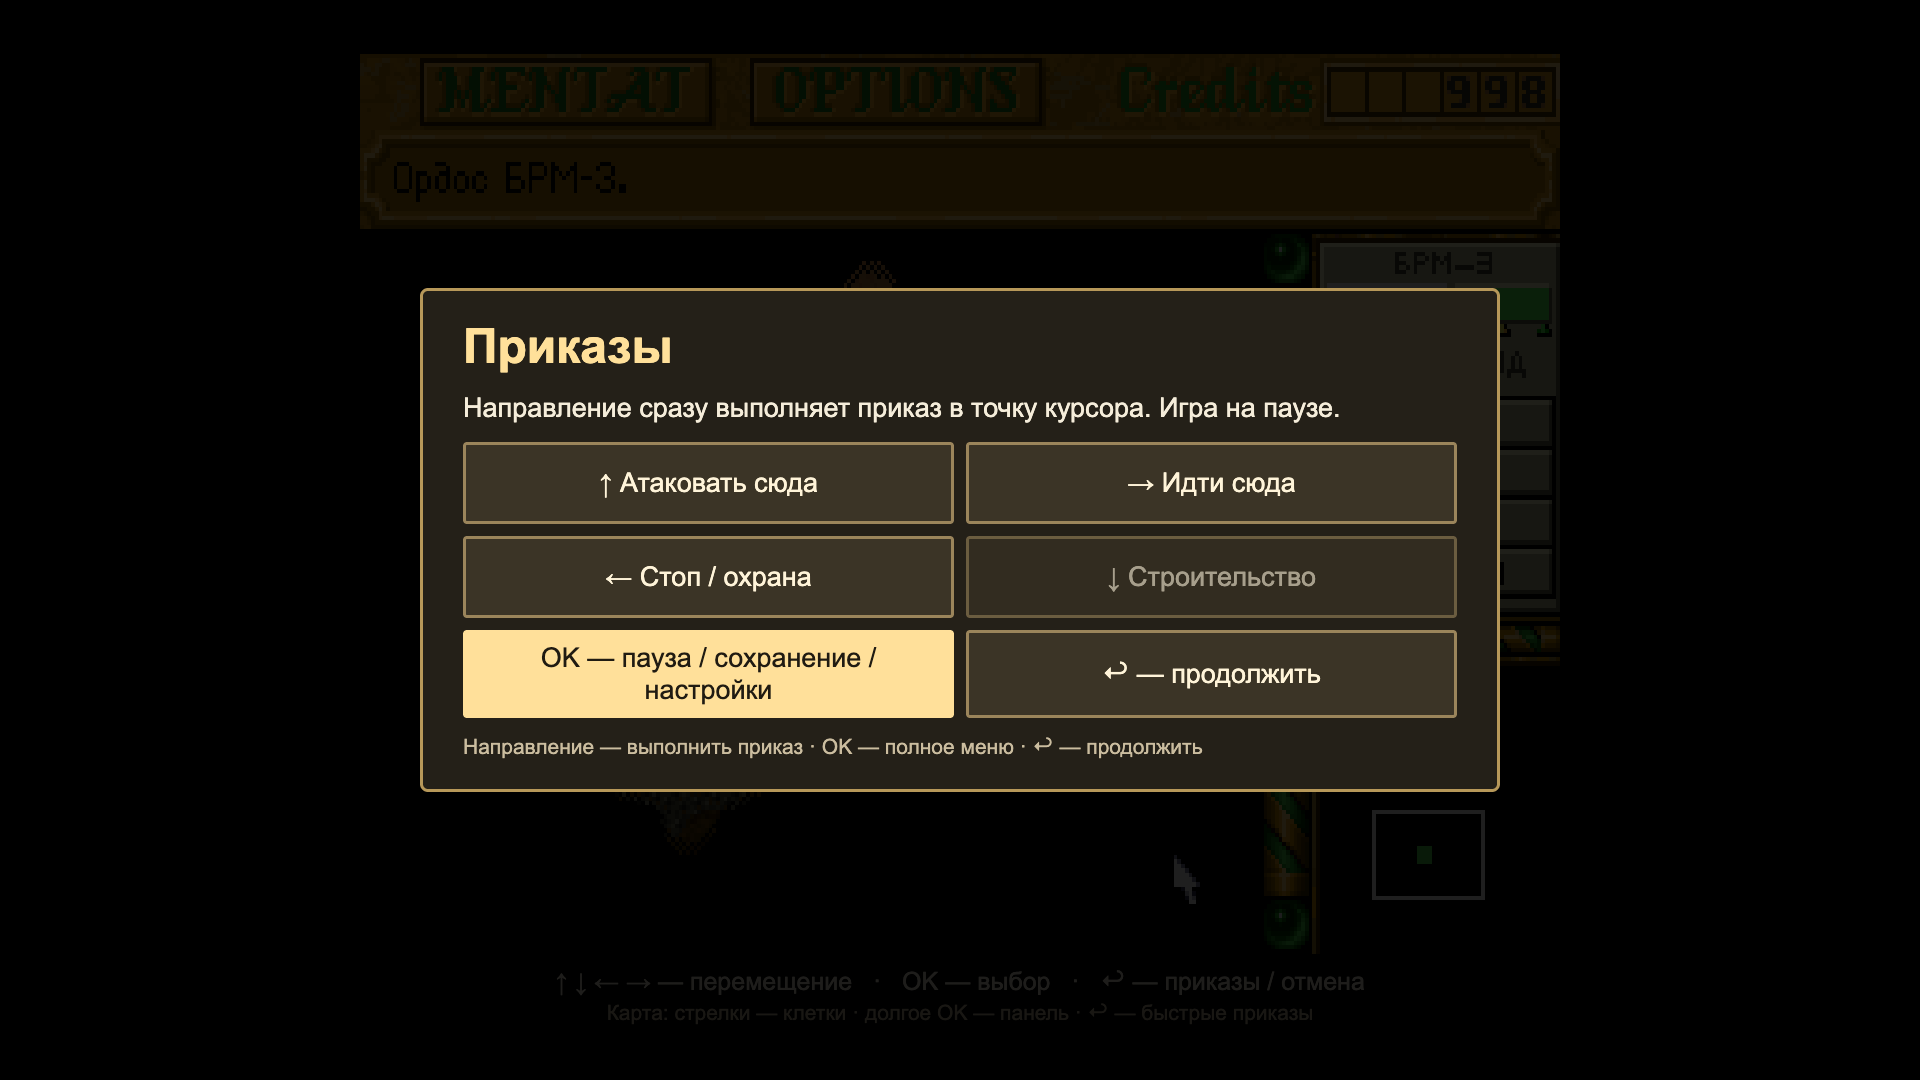
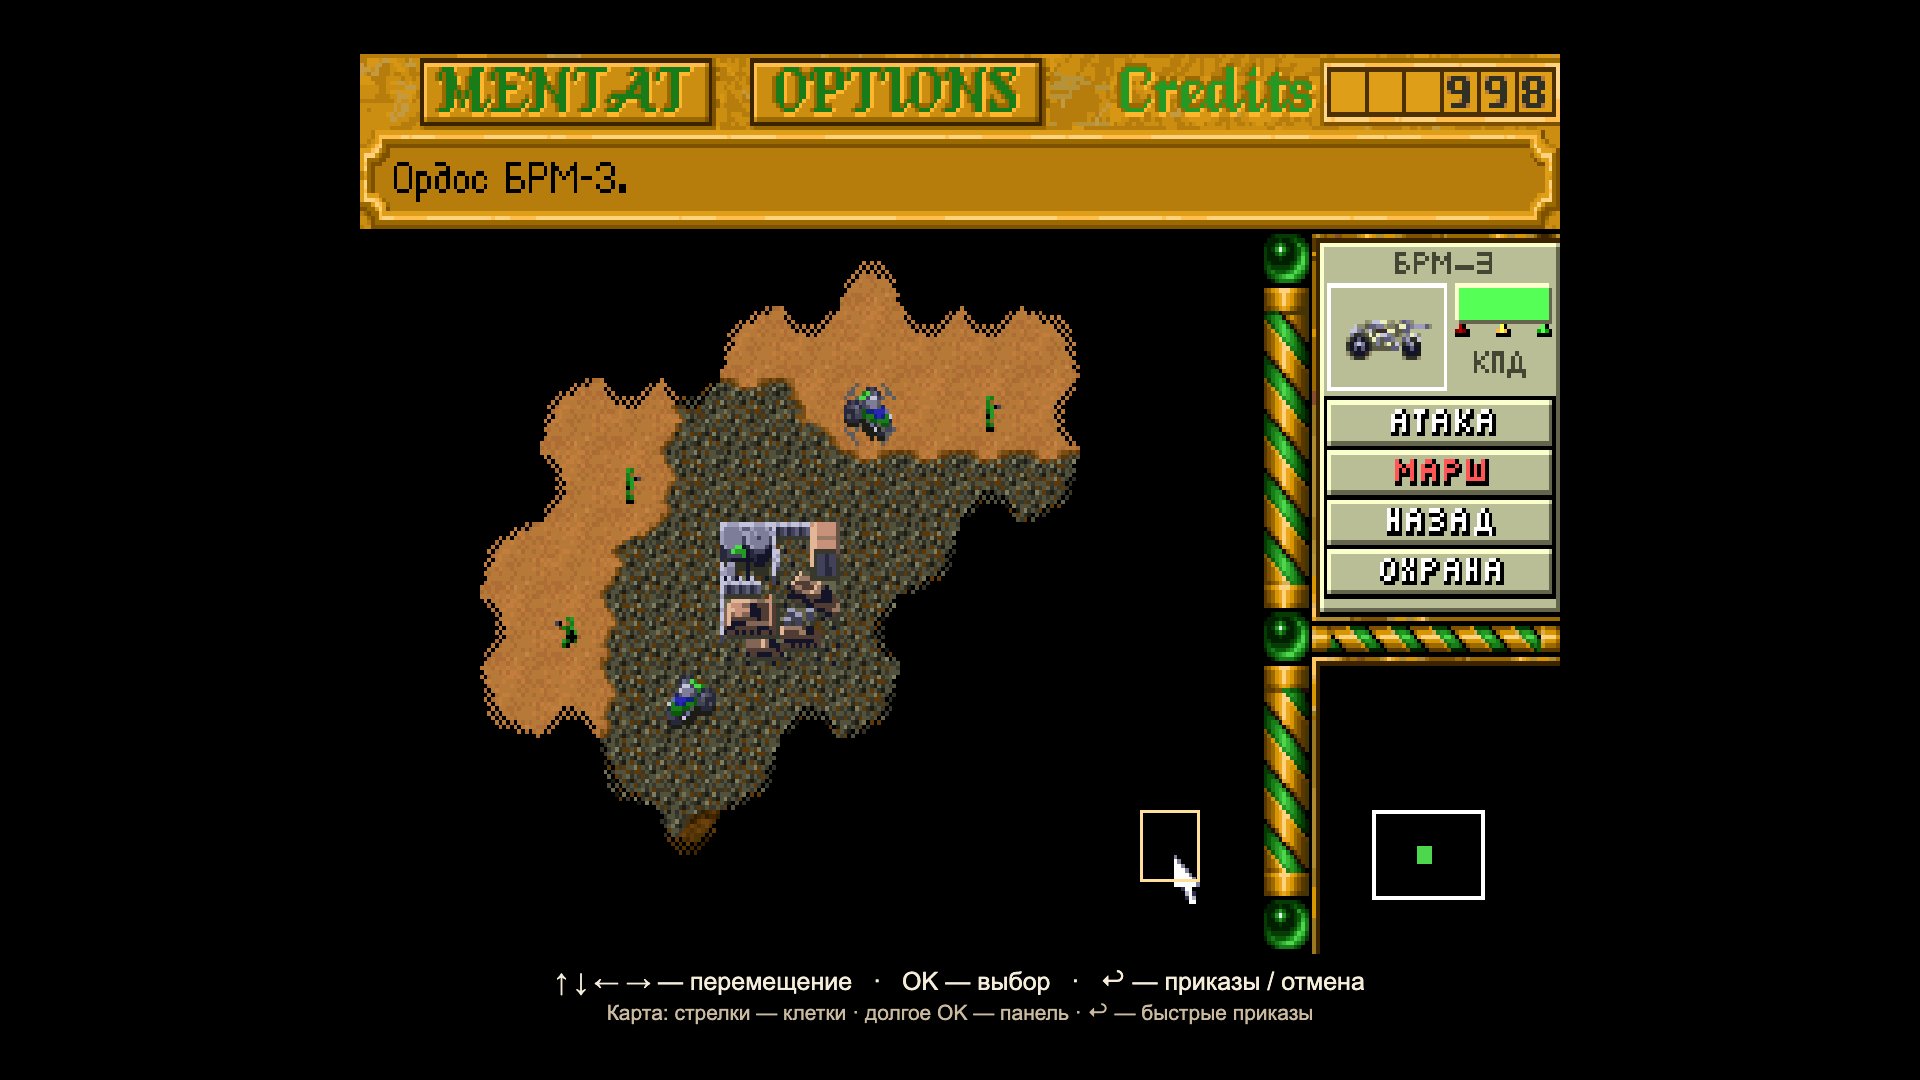
docs: show strategy gameplay and English Civilization ship orders

diff --git a/README.md b/README.md
@@ -18,24 +18,31 @@ performance measurement, and verification of the final TV package.
 
 The gallery uses **English interface previews for X-COM, Prince of Persia, and
 Zuma**, captured from running ports in isolated Opera sessions. **Dune II and
-Civilization retain their original Russian interfaces**, including the native
-HUD and remote-control panels. These are browser captures, not physical-TV
-performance measurements. See the capture notes for language and provenance.
+Civilization gameplay retain their original Russian interfaces**. A separate
+Civilization ship-order panel demonstrates the controls in English. These are
+browser captures, not physical-TV performance measurements; see the capture notes
+for language and provenance.
 
 | X-COM: UFO Defense | Dune II |
 | --- | --- |
-| ![X-COM Battlescape with remote-control hints](docs/screenshots/xcom.png) | ![Dune II contextual order panel operated by remote directions](docs/screenshots/dune-ii.png) |
-| Original DOS game with tactical movement and contextual actions. | Original DOS game with a compact directional order panel. |
+| ![X-COM Battlescape with remote-control hints](docs/screenshots/xcom.png) | ![Dune II mission gameplay with units, base, native command buttons, and minimap](docs/screenshots/dune-ii.png) |
+| Original DOS game with tactical movement and contextual actions. | Original DOS mission with units, a base, and the native command panel. |
 | **Prince of Persia** | **Zuma Deluxe** |
 | ![Prince of Persia gameplay with English remote-control hints](docs/screenshots/prince-of-persia.png) | ![Zuma TV adaptation with aim, fire, ball swap, and precision controls](docs/screenshots/zuma.png) |
 | Original DOS platformer with a running-jump input adapter. | HTML/Canvas adaptation using original resources; it does not execute the Windows game. |
 
+**Sid Meier's Civilization — gameplay**
+
+![Civilization world-map gameplay with a ship, explored coastline, native HUD, and remote-control hints](docs/screenshots/civilization.png)
+
+Original DOS gameplay with the world map, active unit, and native Russian interface.
+
 **Sid Meier's Civilization — contextual ship orders**
 
-![Civilization quick-order panel with sentry, skip-turn, wait, and all-command actions](docs/screenshots/civilization.png)
+![English Civilization quick-order panel with sentry, skip-turn, wait, and all-command actions](docs/screenshots/civilization-orders-en.png)
 
-Original DOS strategy game with object-specific quick actions, persistent sentry
-duty, and a complete command catalog with availability explanations.
+English documentation preview of object-specific quick actions and persistent
+sentry duty. The original DOS game remains in Russian.
 
 See [examples and capture provenance](docs/examples.md) for the demonstrated
 behaviors and the limits of what these screenshots prove. Game archives,

diff --git a/docs/examples.md b/docs/examples.md
@@ -23,8 +23,9 @@ assessing fidelity, completeness, and what an automated test can prove.
 | Published image | Source capture in the original game project | Environment |
 | --- | --- | --- |
 | [X-COM](screenshots/xcom.png) | `output/playwright/skill-gallery-en/xcom.png` | Opera, English UI preview, 1920×1080 |
-| [Civilization](screenshots/civilization.png) | `output/civilization-context/quick-ship.png` | Browser verification, original Russian UI, 1920×1080 |
-| [Dune II](screenshots/dune-ii.png) | `output/playwright/dune-controls/orders.png` | Browser verification, original Russian UI, 1920×1080 |
+| [Civilization gameplay](screenshots/civilization.png) | `output/playwright/civilization/original-map.png` | Browser verification, original Russian UI, 1920×1080 |
+| [Civilization ship orders](screenshots/civilization-orders-en.png) | `output/playwright/skill-gallery-en/civilization.png` | Opera, English UI preview, 1920×1080 |
+| [Dune II](screenshots/dune-ii.png) | `output/playwright/dune-controls/moving.png` | Browser verification, original Russian UI, 1920×1080 |
 | [Prince of Persia](screenshots/prince-of-persia.png) | `output/playwright/skill-gallery-en/prince-of-persia.png` | Opera, English UI preview, 1920×1080 |
 | [Zuma Deluxe](screenshots/zuma.png) | `output/playwright/skill-gallery-en/zuma.png` | Opera, English UI preview, 1920×1080 |
 
@@ -33,10 +34,15 @@ from running local ports in isolated Opera browser contexts. Their remote-contro
 hints and Zuma interface text were translated in the live page before capture.
 X-COM and Prince of Persia already render their native game text in English.
 
-Dune II and Civilization retain the original Russian screenshots, including the
-native HUD and remote-control panels. These two PNGs are copied without alteration
-from the original verification artifacts listed above. Their original DOS programs
-and port interfaces remain in Russian.
+Dune II and Civilization gameplay screenshots show the actual game field without
+a modal order menu. Both retain the original Russian HUD and remote-control hints
+and are copied without alteration from the verification artifacts listed above.
+
+The additional Civilization ship-order screenshot is an English documentation
+preview captured from the running port in Opera on 2026-10-28. Its panel text and
+hints were translated in the live page. CSS clipping omits the top 5% and left 25%
+of the native canvas to avoid the untranslated HUD; the image is labeled
+ENGLISH UI PREVIEW. The original DOS program and gameplay interface remain Russian.
 
 The English previews are documentation presentation, not a claim that the installed
 ports have received a complete localization. No game executables, game rules, or
